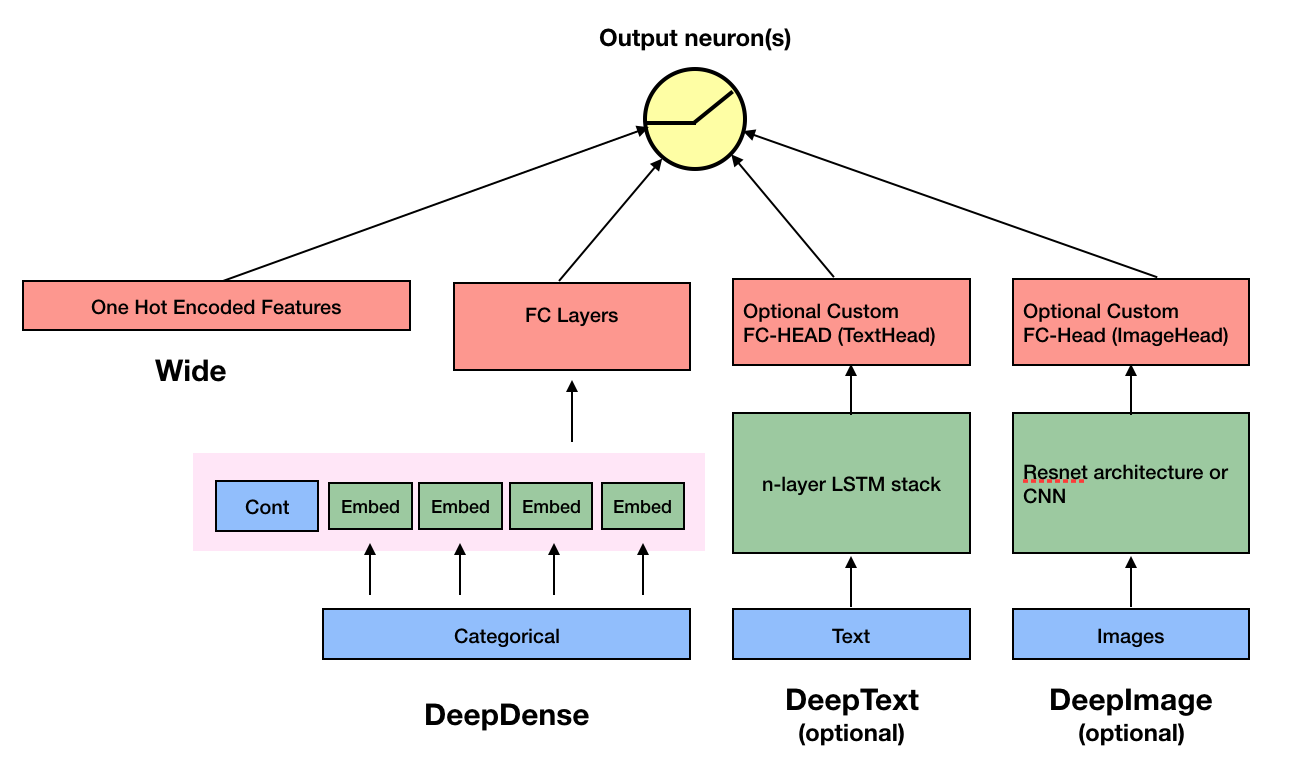
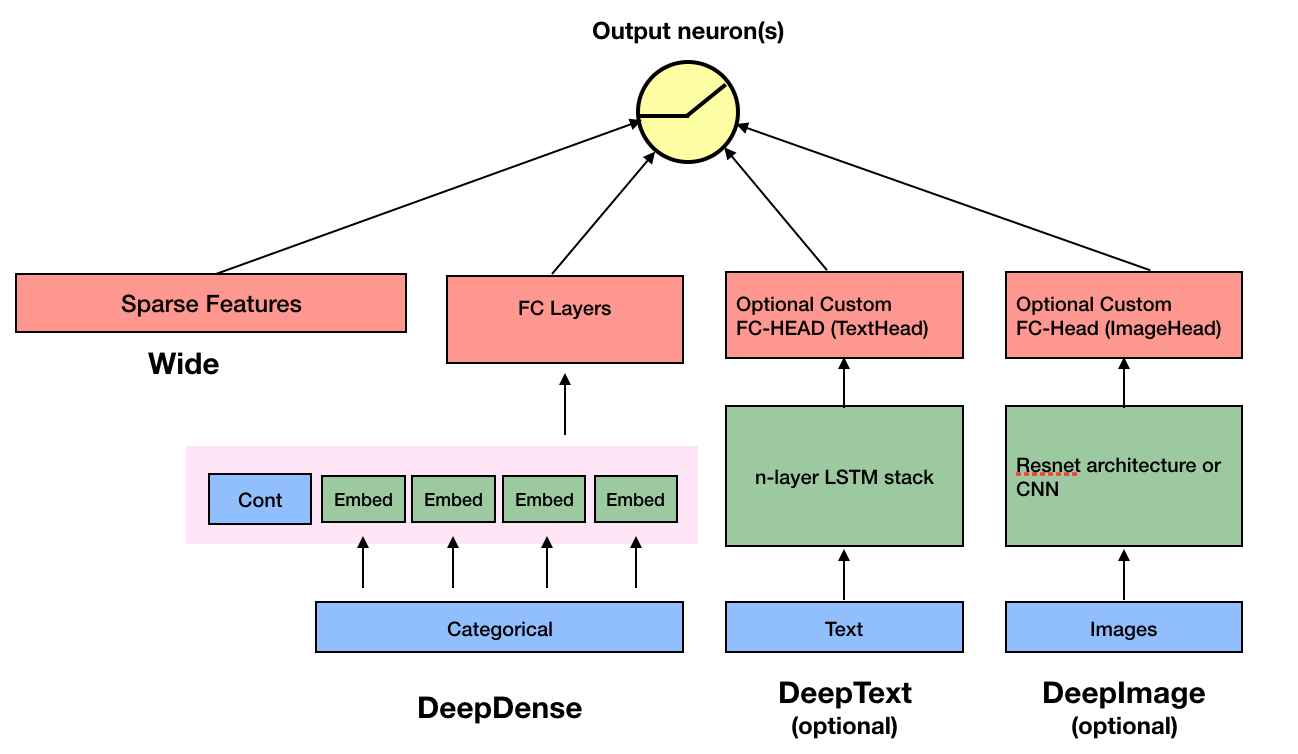
Adjusted README and figures to the new Wide Implementation

diff --git a/README.md b/README.md
@@ -5,10 +5,12 @@
 
 [![Build Status](https://travis-ci.org/jrzaurin/pytorch-widedeep.svg?branch=master)](https://travis-ci.org/jrzaurin/pytorch-widedeep)
 [![Documentation Status](https://readthedocs.org/projects/pytorch-widedeep/badge/?version=latest)](https://pytorch-widedeep.readthedocs.io/en/latest/?badge=latest)
-[![Python 3.6 3.7
-3.8](https://img.shields.io/badge/python-3.6%20%203.7%203.8-blue.svg
-)](https://www.python.org/)
 [![Maintenance](https://img.shields.io/badge/Maintained%3F-yes-green.svg)](https://github.com/jrzaurin/pytorch-widedeep/graphs/commit-activity)
+
+Platform | Version Support
+---------|:---------------
+OSX      | [![Python 3.6 3.7](https://img.shields.io/badge/python-3.6%20%203.7-blue.svg)](https://www.python.org/)
+Linux    | [![Python 3.6 3.7 3.8](https://img.shields.io/badge/python-3.6%20%203.7%203.8-blue.svg)](https://www.python.org/)
 
 # pytorch-widedeep
 
@@ -38,11 +40,11 @@ few lines of code.
   <img width="600" src="docs/figures/architecture_1.png">
 </p>
 
-Architecture 1 combines the `Wide`, one-hot encoded features with the outputs
-from the `DeepDense`, `DeepText` and `DeepImage` components connected to a
-final output neuron or neurons, depending on whether we are performing a
-binary classification or regression, or a multi-class classification. The
-components within the faded-pink rectangles are concatenated.
+Architecture 1 combines the `Wide`, Linear model with the outputs from the
+`DeepDense`, `DeepText` and `DeepImage` components connected to a final output
+neuron or neurons, depending on whether we are performing a binary
+classification or regression, or a multi-class classification. The components
+within the faded-pink rectangles are concatenated.
 
 In math terms, and following the notation in the
 [paper](https://arxiv.org/abs/1606.07792), Architecture 1 can be formulated
@@ -69,10 +71,10 @@ otherwise".*
   <img width="600" src="docs/figures/architecture_2.png">
 </p>
 
-Architecture 2 combines the `Wide` one-hot encoded features with the Deep
-components of the model connected to the output neuron(s), after the different
-Deep components have been themselves combined through a FC-Head (that I refer
-as `deephead`).
+Architecture 2 combines the `Wide`, Linear model with the Deep components of
+the model connected to the output neuron(s), after the different Deep
+components have been themselves combined through a FC-Head (that I refer as
+`deephead`).
 
 In math terms, and following the notation in the
 [paper](https://arxiv.org/abs/1606.07792), Architecture 2 can be formulated
@@ -88,7 +90,8 @@ and `DeepImage` are optional. `pytorch-widedeep` includes standard text (stack
 of LSTMs) and image (pre-trained ResNets or stack of CNNs) models. However,
 the user can use any custom model as long as it has an attribute called
 `output_dim` with the size of the last layer of activations, so that
-`WideDeep` can be constructed. See the examples folder for more information.
+`WideDeep` can be constructed. See the examples folder or the docs for more
+information.
 
 
 ### Installation
@@ -115,14 +118,6 @@ cd pytorch-widedeep
 # Install in dev mode
 pip install -e .
 ```
-
-### Examples
-
-There are a number of notebooks in the `examples` folder plus some additional
-files. These notebooks cover most of the utilities of this package and can
-also act as documentation. In the case that github does not render the
-notebooks, or it renders them missing some parts, they are saved as markdown
-files in the `docs` folder.
 
 ### Quick start
 

diff --git a/pypi_README.md b/pypi_README.md
@@ -1,10 +1,11 @@
 [![Build Status](https://travis-ci.org/jrzaurin/pytorch-widedeep.svg?branch=master)](https://travis-ci.org/jrzaurin/pytorch-widedeep)
 [![Documentation Status](https://readthedocs.org/projects/pytorch-widedeep/badge/?version=latest)](https://pytorch-widedeep.readthedocs.io/en/latest/?badge=latest)
-[![Python 3.6 3.7
-3.8](https://img.shields.io/badge/python-3.6%20%203.7%203.8-blue.svg
-)](https://www.python.org/)
 [![Maintenance](https://img.shields.io/badge/Maintained%3F-yes-green.svg)](https://github.com/jrzaurin/pytorch-widedeep/graphs/commit-activity)
 
+Platform | Version Support
+---------|:---------------
+OSX      | [![Python 3.6 3.7](https://img.shields.io/badge/python-3.6%20%203.7-blue.svg)](https://www.python.org/)
+Linux    | [![Python 3.6 3.7 3.8](https://img.shields.io/badge/python-3.6%20%203.7%203.8-blue.svg)](https://www.python.org/)
 
 # pytorch-widedeep
 
@@ -26,6 +27,7 @@ and images with corresponding tabular data using wide and deep models. With
 that in mind there are two architectures that can be implemented with just a
 few lines of code. For details on these architectures please visit the
 [repo](https://github.com/jrzaurin/pytorch-widedeep).
+
 
 ### Installation
 
@@ -51,14 +53,6 @@ cd pytorch-widedeep
 # Install in dev mode
 pip install -e .
 ```
-
-### Examples
-
-There are a number of notebooks in the `examples` folder plus some additional
-files. These notebooks cover most of the utilities of this package and can
-also act as documentation. In the case that github does not render the
-notebooks, or it renders them missing some parts, they are saved as markdown
-files in the `docs` folder.
 
 ### Quick start
 
